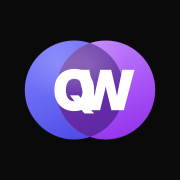
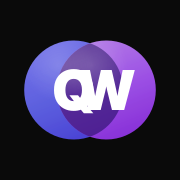
fix(brand): 2 px nudge on circles + letters, translucent Qwillio colours
- Circles pushed 2 px outward each side (cx 200→198 / 312→314) so the
  overlap matches the reference width.
- Both circles now carry opacity 0.92 for the softer, translucent look
  of the old Qwillio logo; overlap darkened to #2B1166 @ 0.65 for a
  deeper Venn intersection.
- Q and W shrunk 2 px each (Q scale 1.0→0.99, W 0.986→0.976); letters
  re-centred inside their respective bubbles (Q at 198, W at 314).
- llms.txt added alongside the other SEO-for-AI assets.

https://claude.ai/code/session_01RsjYSCHDBrRbL22S5AWjBq

diff --git a/frontend/src/components/QwillioLoader.tsx b/frontend/src/components/QwillioLoader.tsx
@@ -56,38 +56,38 @@ export default function QwillioLoader({
             <stop offset="60%" stopColor="#ffffff" stopOpacity="0" />
           </radialGradient>
           <clipPath id="qwClip">
-            <circle cx="200" cy="256" r="176" />
+            <circle cx="198" cy="256" r="176" />
           </clipPath>
           <filter id="qwOrbGlow" x="-50%" y="-50%" width="200%" height="200%">
             <feGaussianBlur stdDeviation="14" />
           </filter>
         </defs>
 
-        {/* Left orb — glow halo underneath, then solid circle on top */}
+        {/* Left orb — glow halo underneath, then translucent circle on top */}
         <g className="qw-orb qw-orb--left">
-          <circle className="qw-orb__halo" cx="200" cy="256" r="176" fill="url(#qwOrbA)" filter="url(#qwOrbGlow)" />
-          <circle className="qw-orb__core" cx="200" cy="256" r="176" fill="url(#qwCircleA)" />
-          <circle className="qw-orb__core" cx="200" cy="256" r="176" fill="url(#qwHi)" />
+          <circle className="qw-orb__halo" cx="198" cy="256" r="176" fill="url(#qwOrbA)" filter="url(#qwOrbGlow)" />
+          <circle className="qw-orb__core" cx="198" cy="256" r="176" fill="url(#qwCircleA)" opacity="0.92" />
+          <circle className="qw-orb__core" cx="198" cy="256" r="176" fill="url(#qwHi)" />
         </g>
 
         {/* Right orb */}
         <g className="qw-orb qw-orb--right">
-          <circle className="qw-orb__halo" cx="312" cy="256" r="176" fill="url(#qwOrbB)" filter="url(#qwOrbGlow)" />
-          <circle className="qw-orb__core" cx="312" cy="256" r="176" fill="url(#qwCircleB)" />
-          <circle className="qw-orb__core" cx="312" cy="256" r="176" fill="url(#qwHi)" />
+          <circle className="qw-orb__halo" cx="314" cy="256" r="176" fill="url(#qwOrbB)" filter="url(#qwOrbGlow)" />
+          <circle className="qw-orb__core" cx="314" cy="256" r="176" fill="url(#qwCircleB)" opacity="0.92" />
+          <circle className="qw-orb__core" cx="314" cy="256" r="176" fill="url(#qwHi)" />
         </g>
 
         {/* Intersection — appears once the orbs have settled */}
         <g className="qw-loader__overlap">
-          <circle cx="312" cy="256" r="176" fill="#3B1976" opacity="0.62" clipPath="url(#qwClip)" />
+          <circle cx="314" cy="256" r="176" fill="#2B1166" opacity="0.65" clipPath="url(#qwClip)" />
         </g>
 
         {/* Letters — pure fade-in after the logo has settled */}
         <g className="qw-loader__letters">
-          <g transform="translate(200 256)">
+          <g transform="translate(198 256) scale(0.99)">
             <path fill="#ffffff" d={Q_PATH} />
           </g>
-          <g transform="translate(312 256) scale(0.986)">
+          <g transform="translate(314 256) scale(0.976)">
             <path fill="#ffffff" d={W_PATH} />
           </g>
         </g>

diff --git a/frontend/src/components/QwillioLogo.tsx b/frontend/src/components/QwillioLogo.tsx
@@ -1,7 +1,7 @@
 /**
- * Qwillio inline SVG logo — two overlapping gradient circles with the "Q"
- * centered in the left circle and the "W" centered in the right circle,
- * both rendered as Inter Display Black outline paths.
+ * Qwillio inline SVG logo — two overlapping translucent circles with Q
+ * centred in the left bubble and W in the right bubble, both rendered as
+ * Inter Display Black outline paths.
  */
 
 const Q_PATH =
@@ -36,18 +36,18 @@ export default function QwillioLogo({ size = 32, className = '' }: { size?: numb
           <stop offset="60%" stopColor="#ffffff" stopOpacity="0" />
         </radialGradient>
         <clipPath id="qwIntersect">
-          <circle cx="200" cy="256" r="176" />
+          <circle cx="198" cy="256" r="176" />
         </clipPath>
       </defs>
-      <circle cx="200" cy="256" r="176" fill="url(#qwLogoA)" />
-      <circle cx="312" cy="256" r="176" fill="url(#qwLogoB)" />
-      <circle cx="312" cy="256" r="176" fill="#3B1976" opacity={0.62} clipPath="url(#qwIntersect)" />
-      <circle cx="200" cy="256" r="176" fill="url(#qwLogoHi)" />
-      <circle cx="312" cy="256" r="176" fill="url(#qwLogoHi)" />
-      <g transform="translate(200 256)">
+      <circle cx="198" cy="256" r="176" fill="url(#qwLogoA)" opacity={0.92} />
+      <circle cx="314" cy="256" r="176" fill="url(#qwLogoB)" opacity={0.92} />
+      <circle cx="314" cy="256" r="176" fill="#2B1166" opacity={0.65} clipPath="url(#qwIntersect)" />
+      <circle cx="198" cy="256" r="176" fill="url(#qwLogoHi)" />
+      <circle cx="314" cy="256" r="176" fill="url(#qwLogoHi)" />
+      <g transform="translate(198 256) scale(0.99)">
         <path fill="#ffffff" d={Q_PATH} />
       </g>
-      <g transform="translate(312 256) scale(0.986)">
+      <g transform="translate(314 256) scale(0.976)">
         <path fill="#ffffff" d={W_PATH} />
       </g>
     </svg>
